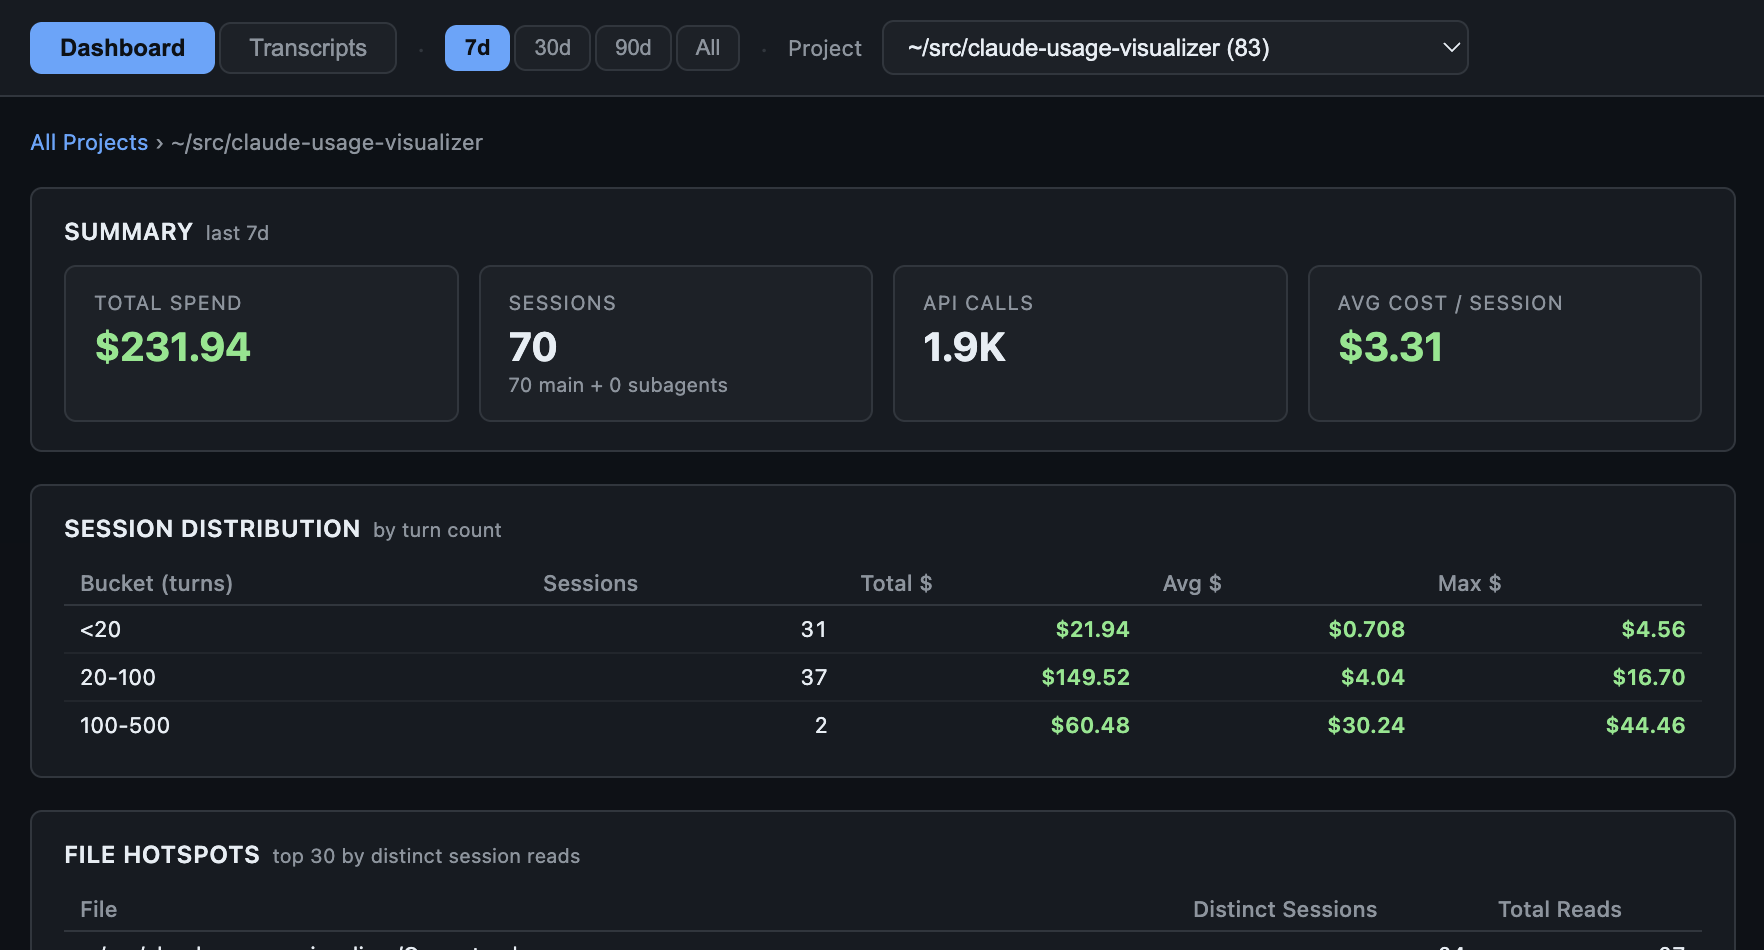
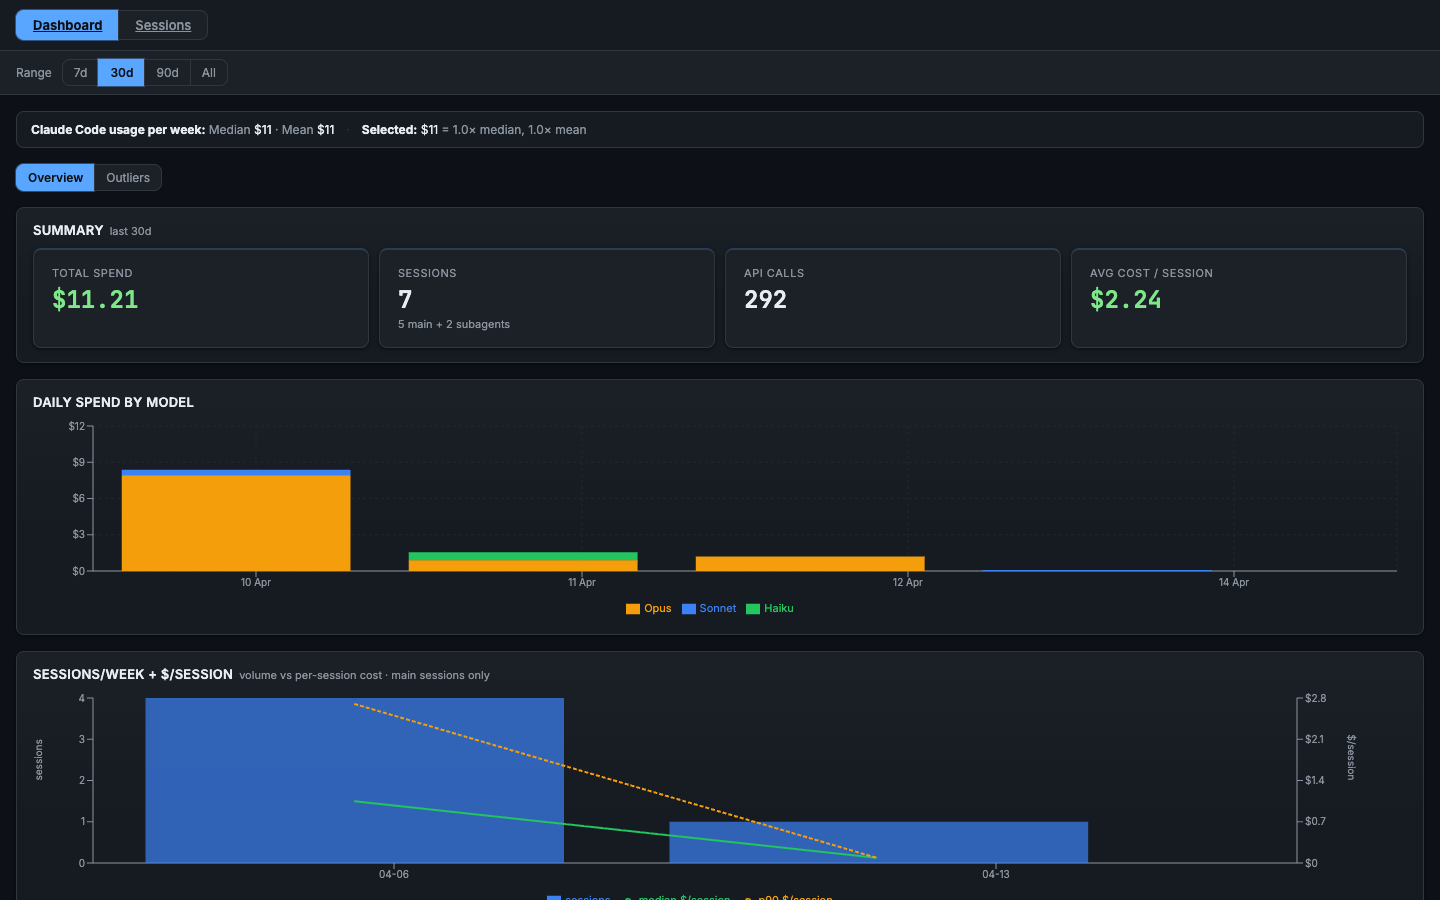
docs: refresh viewer screenshots, add sessions-list panel
Regenerated dashboard + transcripts PNGs from an anonymized fixture DB
and added a new sessions.png. READMEs now show the full three-panel
flow (sessions → transcript → dashboard).

diff --git a/README.md b/README.md
@@ -76,7 +76,21 @@ The **Dashboard** tab shows a multi-panel cost breakdown split into two sub-tabs
 - **Outliers** — actionable panels: most-expensive turns, top sessions, context-size distribution, cache invalidation events, artifact leaderboards, file hotspots, and more.
 
 <p align="center">
-  <img src="docs/assets/transcripts.png" alt="cct serve transcripts" width="800" />
+  <img src="docs/assets/sessions.png" alt="Session list: filter by cost, project, tool, subagents" width="800" />
+  <br/>
+  <em>Session list — sortable by cost or time, filter on project, tool, model, subagents.</em>
+</p>
+
+<p align="center">
+  <img src="docs/assets/transcripts.png" alt="Session transcript: per-turn cost and tool timeline" width="800" />
+  <br/>
+  <em>Session view — per-turn cost, cache/token split, tool calls and thinking inline.</em>
+</p>
+
+<p align="center">
+  <img src="docs/assets/dashboard.png" alt="Dashboard: spend breakdown by model and time" width="800" />
+  <br/>
+  <em>Dashboard — daily spend by model, sessions/week, outlier turns.</em>
 </p>
 
 ## `cct` reference

diff --git a/crates/claude-code-transcripts-ingest/README.md b/crates/claude-code-transcripts-ingest/README.md
@@ -53,6 +53,12 @@ cct serve [--db <file>] [--port <n>]
 | `--db` | `~/.local/share/cct/transcripts.duckdb` (`$XDG_DATA_HOME/cct/transcripts.duckdb`) | DB file to serve |
 | `--port` | `8766` | Listen port |
 
+#### Sessions list
+
+Every session at a glance — cost, tokens, tools used, subagent flag. Filter by project, tool, model, or cost range; sort by most recent or highest spend.
+
+![cct serve sessions](https://raw.githubusercontent.com/alfredvc/claude-usage-optimization/main/docs/assets/sessions.png)
+
 #### Transcripts
 
 Browse by project → session → turn-by-turn timeline. Every assistant turn shows its exact cost: input, output, cache-read, and cache-creation tokens with the resulting dollar amount. Subagent calls expand inline so you can trace the full cost of any delegated task back to the turn that triggered it.
